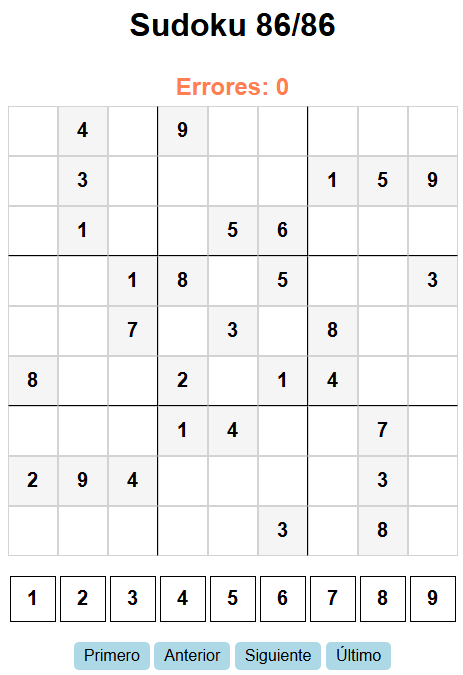
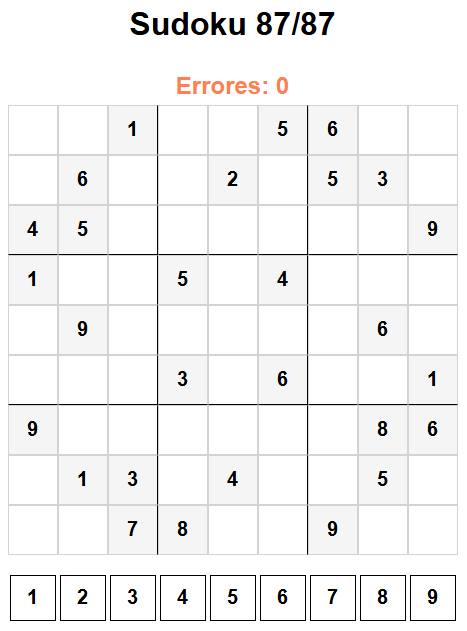
Feat: sudoku-javascript. 20260830
- 20260830

#20260830

diff --git a/board.js b/board.js
@@ -171,6 +171,8 @@ const board = [
     '-3---9---', '-465-----', '3---6-7--', '1-7--8--5'],
   ['-4-9-----', '-3----159', '-1--56---', '--18-5--3', '--7-3-8--',
     '8--2-14--', '---14--7-', '294----3-', '-----3-8-'],
+  ['--1--56--', '-6--2-53-', '45------9', '1--5-4---', '-9-----6-',
+    '---3-6--1', '9------86', '-13-4--5-', '--78--9--'],
 ];
 
 export default function getBoard (WHICH) {

diff --git a/sudoku.js b/sudoku.js
@@ -10,7 +10,7 @@ let posExample = '';
 
 let errors = 0;
 
-const WHICH = 85;
+const WHICH = 86;
 let currentBoardIndex = WHICH; // El índice del tablero que se va a resolver
 
 let board = [];
